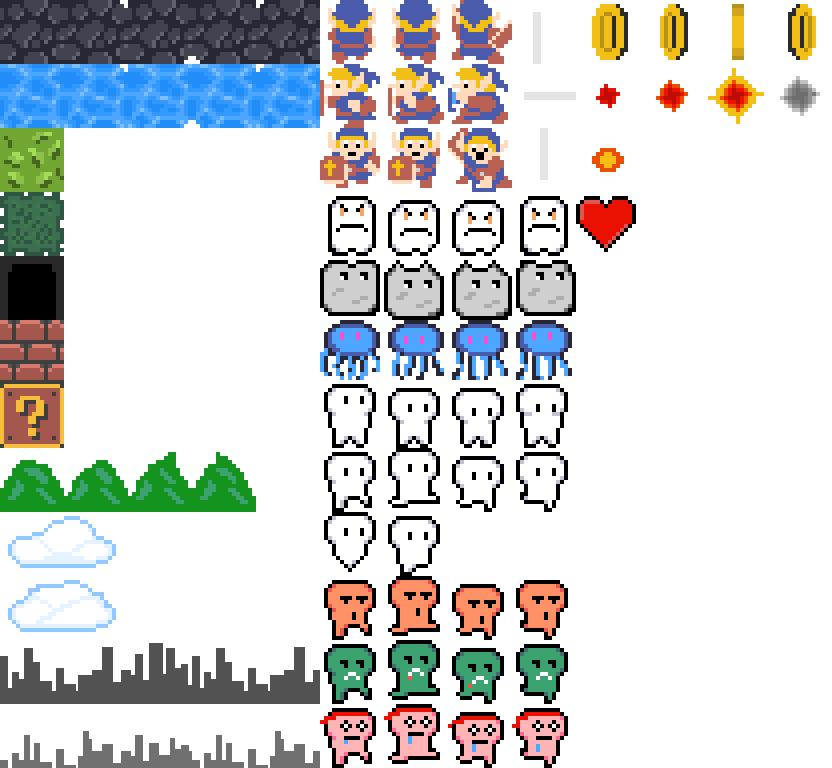
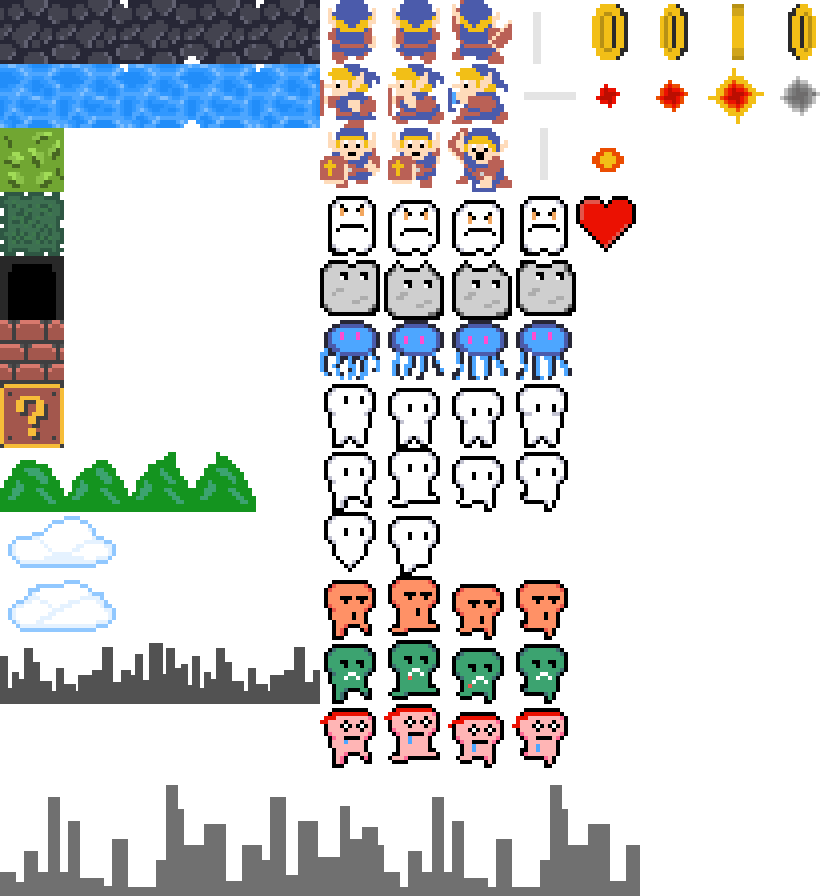
Improve parallax scrolling

diff --git a/src/Assets.cpp b/src/Assets.cpp
@@ -24,8 +24,9 @@ void Assets::loadFromFile(const std::string& path) {
         while (text_stream >> asset_type) {
 			if (asset_type == "Texture") {
 				std::string name, texture_path;
-				text_stream >> name >> texture_path;
-				addTexture(name, texture_path);
+				bool repeating;
+				text_stream >> name >> texture_path >> repeating;
+				addTexture(name, texture_path, repeating);
 			} else if (asset_type == "Animation") {
 				std::string name, texture;
 				size_t frames;
@@ -46,9 +47,8 @@ void Assets::loadFromFile(const std::string& path) {
 				addMusic(name, music_path);
 			} else if (asset_type == "Layer") {
 				std::string name, texture;
-				int w, h, offset_x, offset_y;
-				text_stream >> name >> texture >> w >> h >> offset_x >> offset_y;
-				addLayer(name, texture, Vec2(w, h), Vec2(offset_x, offset_y));
+				text_stream >> name >> texture;
+				addLayer(name, texture);
 			} else {
 				std::cerr << "Unknown asset type: " << asset_type << '\n';
 			}
@@ -57,9 +57,11 @@ void Assets::loadFromFile(const std::string& path) {
 	file.close();
 }
 
-void Assets::addTexture(const std::string& texture_name, const std::string& path, bool smooth) {
+void Assets::addTexture(const std::string& texture_name, const std::string& path, bool repeating, bool smooth) {
 	PROFILE_SCOPE(path);
-	m_texture_map[texture_name] = sf::Texture();
+	sf::Texture texture;
+	texture.setRepeated(repeating);
+	m_texture_map[texture_name] = texture;
 
 	if (!m_texture_map[texture_name].loadFromFile(path)) {
 		std::cerr << "Cannot load texture file: " << path << '\n';
@@ -147,8 +149,8 @@ const std::shared_ptr<sf::Music> Assets::getMusic(const std::string& music_name)
 }
 
 
-void Assets::addLayer(const std::string& layer_name, const std::string& texture_name, Vec2 size, Vec2 offset) {
-	m_layer_map[layer_name] = Layer(layer_name, getTexture(texture_name), size, offset);
+void Assets::addLayer(const std::string& layer_name, const std::string& texture_name) {
+	m_layer_map[layer_name] = Layer(layer_name, getTexture(texture_name));
 }
 
 const Layer& Assets::getLayer(const std::string& layer_name) const {

diff --git a/src/scene/scene-side-scroller.cpp b/src/scene/scene-side-scroller.cpp
@@ -172,7 +172,7 @@ void SceneSideScroller::loadLevel(const std::string& path) {
             } else if (asset_type == "Background") {
                 std::string layer;
                 text_stream >> layer;
-                m_backgrounds.push_back(m_engine->assets().getLayer(layer));
+                m_background_layers.push_back(m_engine->assets().getLayer(layer));
             } else {
                 std::cerr << "Unknown level object: " << asset_type << '\n';
                 // TODO: handle this error
@@ -505,20 +505,19 @@ void SceneSideScroller::sRender() {
     m_engine->window().clear(sf::Color(236, 115, 22));
 
     // Draw backgrounds
-    float parallax_velocity = 0.05f;
-    for (auto& background : m_backgrounds) { // TODO: clean this mess
-        if (m_current_frame == 0) {
-            background.getSprite().setPosition(0, 0);
-            background.getSprite().scale(m_engine->window().getSize().x /128, m_engine->window().getSize().y/64);
-        }
-        auto& p_pos = m_player->getComponent<CTransform>().pos;
-        if (m_engine->window().getSize().x /2.0f < p_pos.x) {
-            background.getSprite().setPosition(p_pos.x - m_engine->window().getSize().x/2, 0);
-        }
-        background.update(m_player->getComponent<CTransform>().velocity.x, parallax_velocity);
+    sf::View view = m_engine->window().getView();
+    float parallax_velocity = 0.01f;
+    const auto p_transform = m_player->getComponent<CTransform>();
+    for (auto& layer : m_background_layers) {
+        layer.update(p_transform.velocity.x, parallax_velocity);
         parallax_velocity += 0.05f;
-        m_engine->window().draw(background.getSprite());
+        if (m_current_frame == 0) {
+            layer.scale(m_engine->window().getSize().x, m_engine->window().getSize().y);
+        }
+        m_engine->window().setView(layer.getView());
+        m_engine->window().draw(layer.getSprite());
     }
+    m_engine->window().setView(view);
 
     // Draw all Entity textures/animations
     if (m_draw_textures) {

diff --git a/src/Layer.cpp b/src/Layer.cpp
@@ -1,21 +1,21 @@
 #include "layer.hpp"
 
-Layer::Layer(const std::string& name, const sf::Texture& texture, Vec2 size, Vec2 offset)
-    : m_name(name), m_sprite(texture), m_size(size), m_offset(offset), m_x_pos(offset.x) {
-    m_sprite.setTextureRect(sf::IntRect(
-        static_cast<int>(m_offset.x),
-        static_cast<int>(m_offset.y),
-        static_cast<int>(m_size.x),
-        static_cast<int>(m_size.y)
-    ));
+Layer::Layer(const std::string& name, const sf::Texture& texture)
+    : m_name(name), m_sprite(texture), m_size(Vec2(texture.getSize().x, texture.getSize().y)) {
+    m_sprite.setTextureRect(sf::IntRect(0, 0, 3 * static_cast<int>(m_size.x), 2 * static_cast<int>(m_size.y)));
+    m_sprite.setOrigin(m_size.x, m_size.y);
 }
 
 void Layer::update(float velocity_x, float coeff) {
-    m_x_pos += velocity_x * coeff;
-    m_sprite.setTextureRect(sf::IntRect(
-        static_cast<int>(m_offset.x) + static_cast<int>(m_x_pos) % 192, // TODO: remove hard coded values
-        static_cast<int>(m_offset.y),
-        static_cast<int>(m_size.x),
-        static_cast<int>(m_size.y)
-    ));
+    m_view.setCenter(m_view_offset_x, -m_size.y);
+    m_view_offset_x += velocity_x * coeff;
+    m_sprite_offset_x = floor(m_view_offset_x / m_size.x) * m_size.x;
+    m_sprite.setPosition(m_sprite_offset_x, m_size.y);
+}   
+
+void Layer::scale(unsigned int window_w, unsigned int window_h) {
+    m_sprite.scale(
+        window_w / static_cast<unsigned int>(m_size.x),
+        window_h / static_cast<unsigned int>(m_size.y)
+    );
 }

diff --git a/src/Assets.hpp b/src/Assets.hpp
@@ -21,13 +21,13 @@ class Assets
 	std::map<std::string, std::shared_ptr<sf::Music>> m_music_map;
 	std::map<std::string, Layer> m_layer_map;
 
-	void addTexture(const std::string& texture_name, const std::string& path, bool smooth = false);
+	void addTexture(const std::string& texture_name, const std::string& path, bool repeating, bool smooth = false);
 	void addAnimation(const std::string& animation_name, const std::string& texture_name, size_t frame_count, int speed, Vec2 size, Vec2 offset);
 	void addFont(const std::string& font_name, const std::string& path);
 	void addSoundBuffer(const std::string& sound_name, const std::string& path);
 	void addSound(const std::string& sound_name, const std::string& path);
 	void addMusic(const std::string& music_name, const std::string& path);
-	void addLayer(const std::string& layer_name, const std::string& texture_name, Vec2 size, Vec2 offset);
+	void addLayer(const std::string& layer_name, const std::string& texture_name);
 
 	const sf::SoundBuffer& getSoundBuffer(const std::string& sound_name) const;
 

diff --git a/src/Layer.hpp b/src/Layer.hpp
@@ -7,17 +7,20 @@
 
 // Used for parallax scrolling
 class Layer {
+    sf::View m_view;
     std::string m_name;
     sf::Sprite m_sprite;
     Vec2 m_size{ 0, 0 };
-    Vec2 m_offset{ 0, 0 }; // Offset in texture atlas
-    float m_x_pos{ 0.0f };
+    float m_view_offset_x{ 0.0f };
+    float m_sprite_offset_x{ 0.0f };
 
 public:
     Layer() = default;
-    Layer(const std::string& name, const sf::Texture& texture, Vec2 size, Vec2 offset);
+    Layer(const std::string& name, const sf::Texture& texture);
 
     void update(float velocity_x, float coeff = 0.025f);
+    void scale(unsigned int window_w, unsigned int window_h);
 
     sf::Sprite& getSprite() { return m_sprite; }
+    const sf::View& getView() { return m_view; }
 };

diff --git a/src/scene/scene.hpp b/src/scene/scene.hpp
@@ -115,7 +115,7 @@ class SceneSideScroller: public Scene
 	const Vec2 m_grid_size{ 64, 64 };
 	sf::Text m_grid_text;
 	sf::Text m_pause_text;
-	std::vector<Layer> m_backgrounds;
+	std::vector<Layer> m_background_layers;
 
 	Vec2 m_mouse_pos;
 	sf::CircleShape m_mouse_shape;
